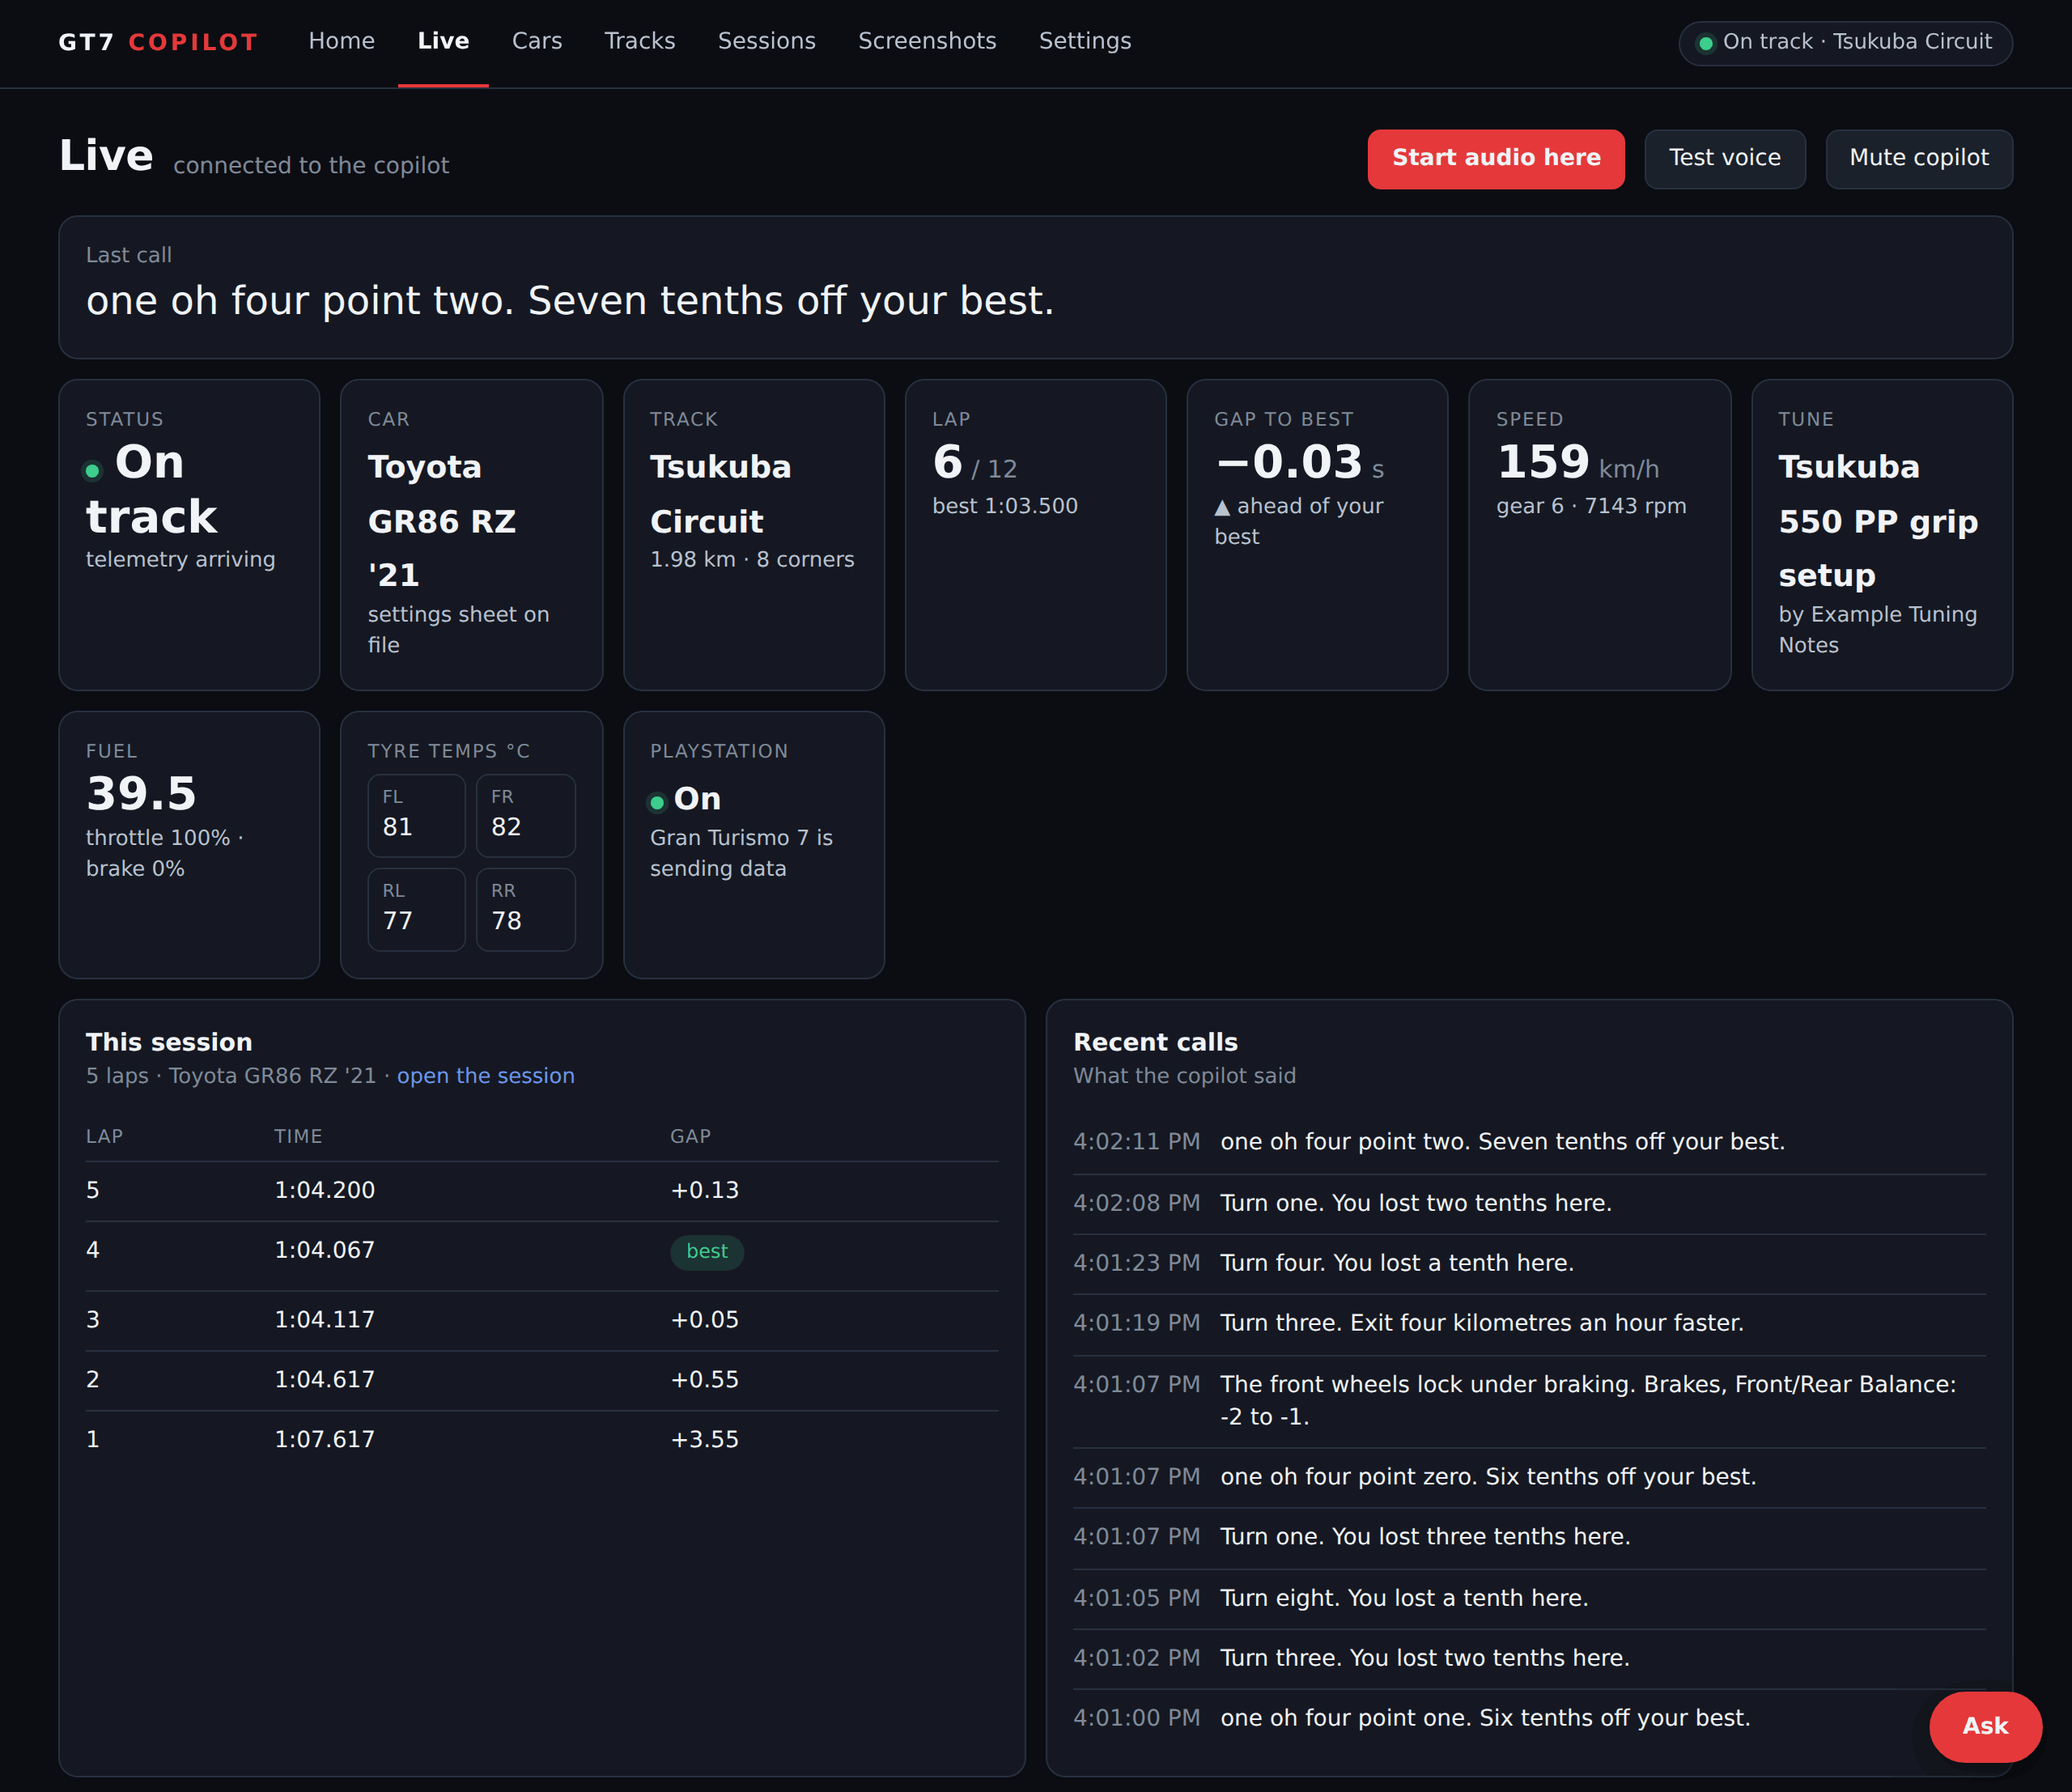
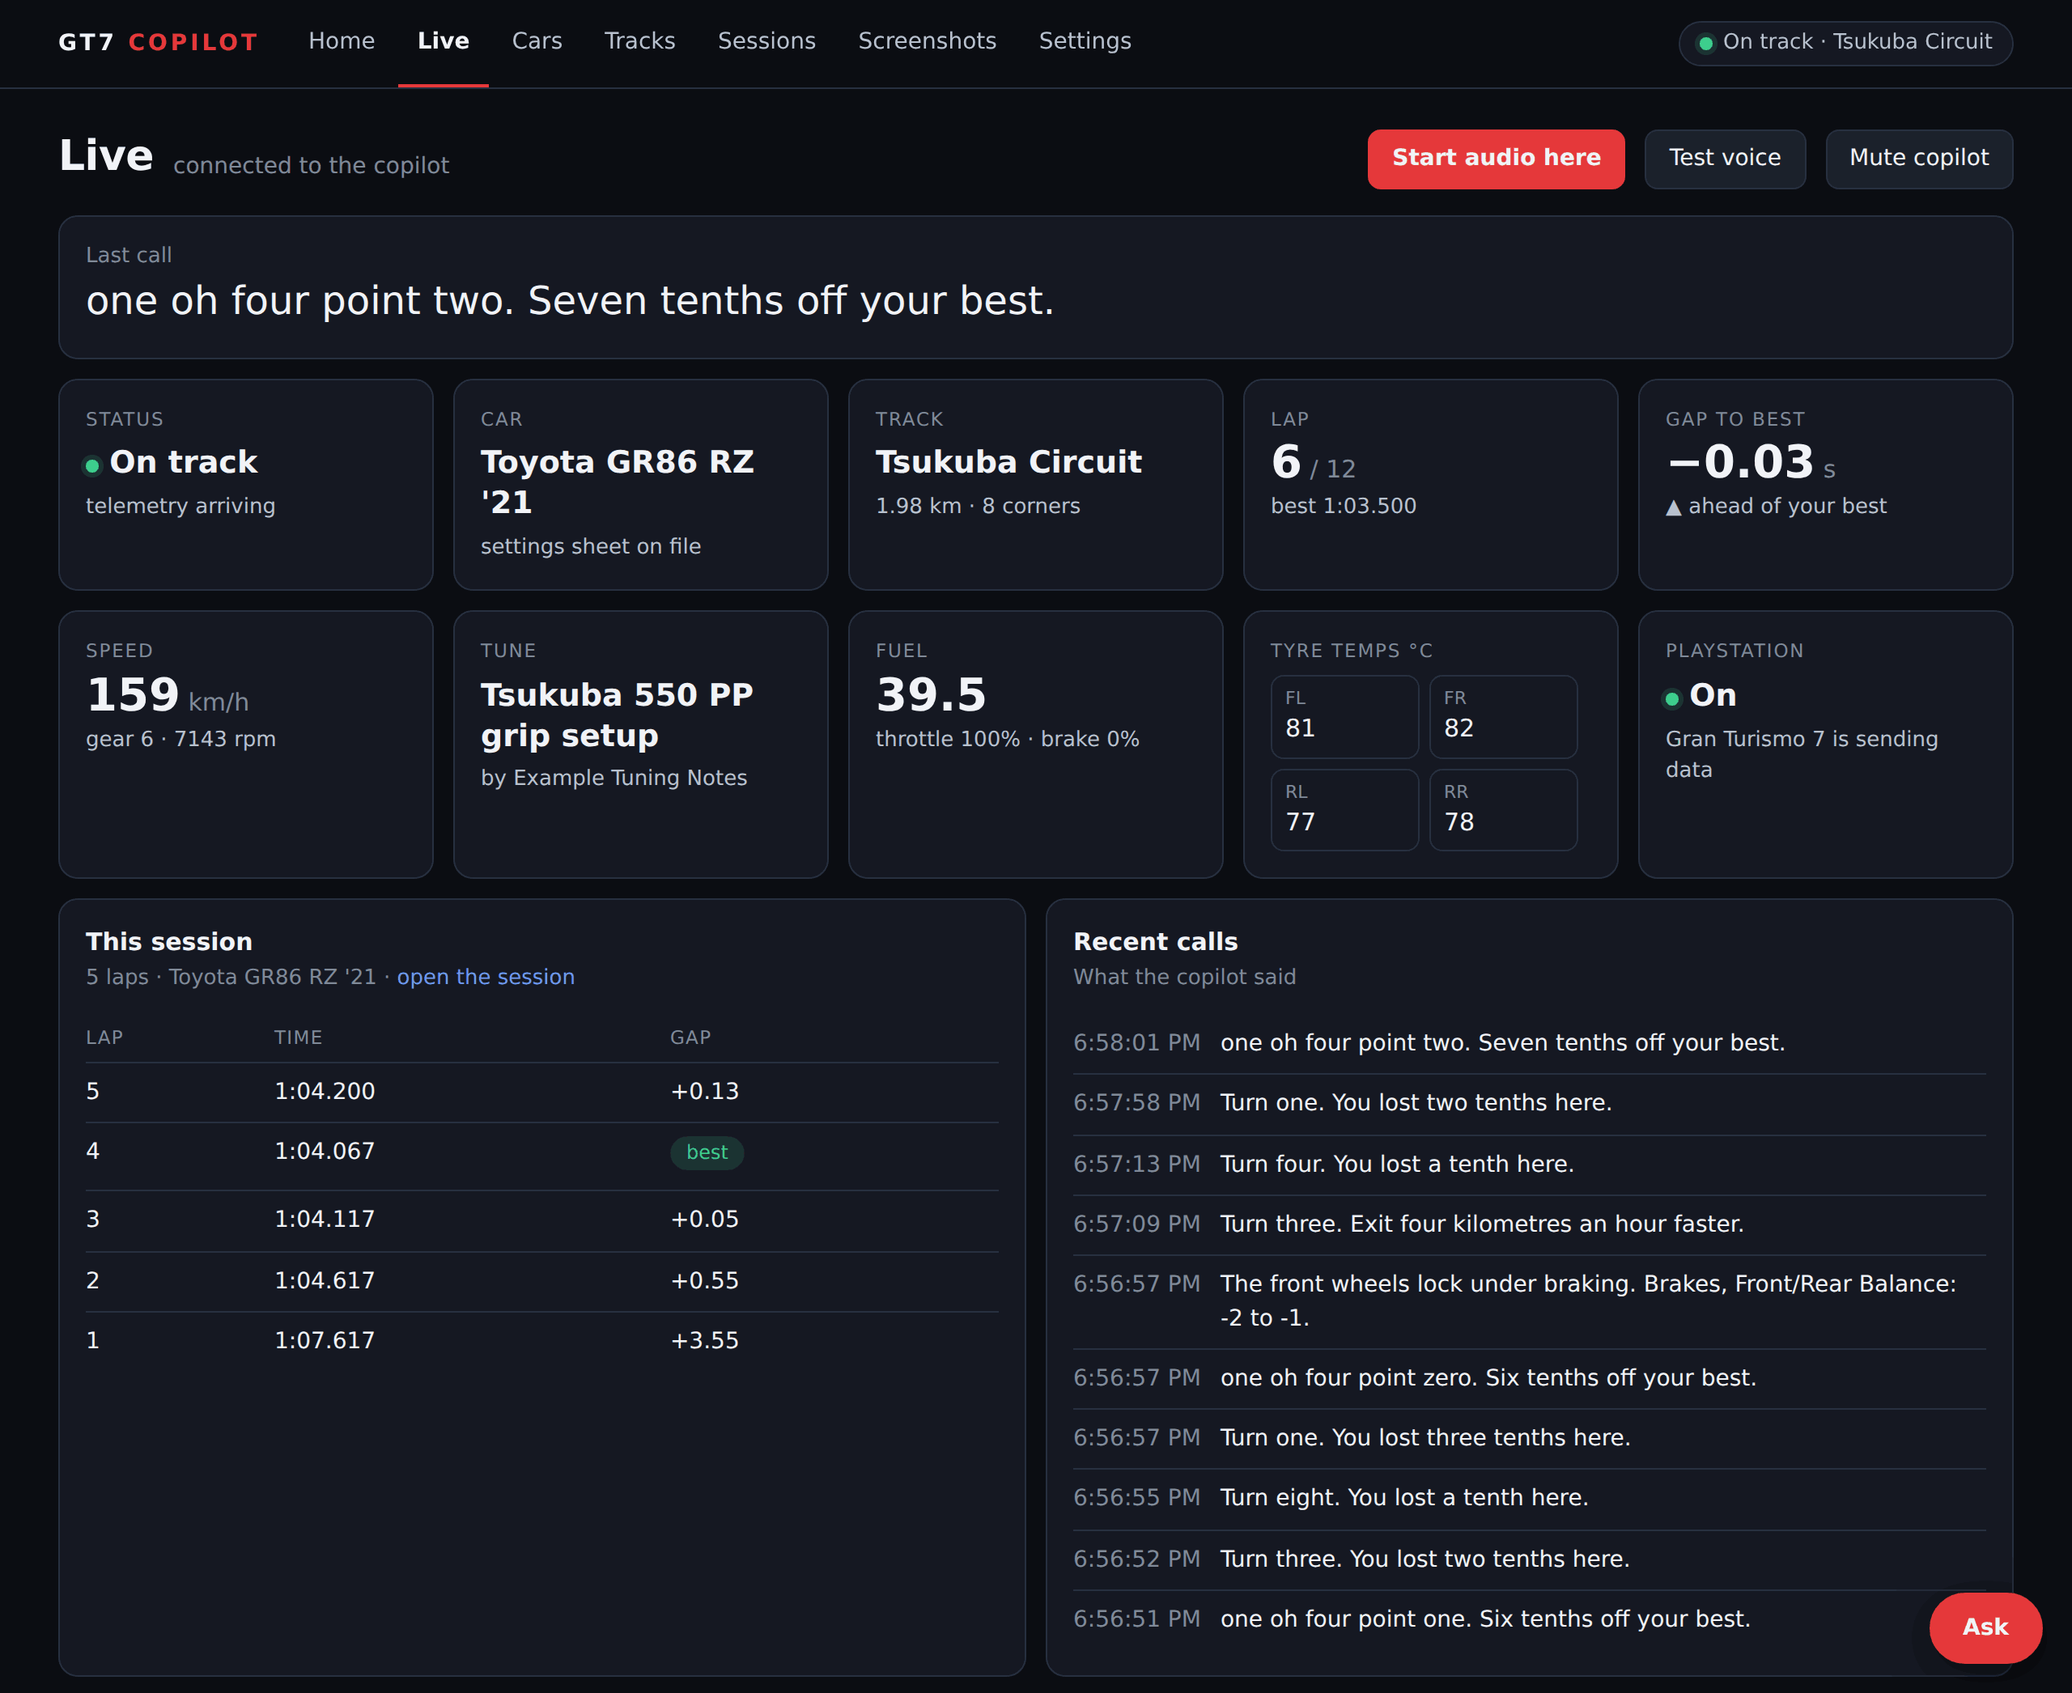
GT7 Copilot 0.13.3: Live tiles, Corners table and room under the Ask button
Claude-Session: https://claude.ai/code/session_01Gq8Z3t3bixSafo6iPL8z1P

diff --git a/web/index.html b/web/index.html
@@ -37,13 +37,15 @@ nav a[aria-current=page]{color:var(--text);border-bottom-color:var(--accent);fon
 @media (max-width:720px){.bar{gap:10px;padding:0 12px}.brand span{display:none}#liveChip .lbl{display:none}}
 
 /* ---- layout ---- */
-main{max-width:1240px;margin:0 auto;padding:20px 16px 60px}
+main{max-width:1240px;margin:0 auto;padding:20px 16px 88px}   /* the bottom: room to scroll the last card clear of the Ask button */
 .pagehead{display:flex;align-items:flex-end;gap:12px;flex-wrap:wrap;margin:4px 0 16px}
 .pagehead h1{font-size:26px;font-weight:650;margin:0;letter-spacing:-.01em}
 .pagehead .sub{color:var(--mut);font-size:14px;padding-bottom:3px}
 .crumb{font-size:13px;color:var(--mut);margin-bottom:6px}
 .grid{display:grid;gap:12px}
 .tiles{grid-template-columns:repeat(auto-fit,minmax(150px,1fr))}
+#liveTiles{grid-template-columns:repeat(auto-fit,minmax(220px,1fr))}   /* ten tiles, some with names in them: five a row on a desktop */
+@media (max-width:520px){#liveTiles{grid-template-columns:repeat(2,minmax(0,1fr))}}
 .two{grid-template-columns:minmax(0,1fr) minmax(0,1fr)}
 .three{grid-template-columns:repeat(3,minmax(0,1fr))}
 .split{grid-template-columns:minmax(0,1.5fr) minmax(0,1fr)}
@@ -57,6 +59,7 @@ main{max-width:1240px;margin:0 auto;padding:20px 16px 60px}
 .tile .k{color:var(--mut);font-size:11.5px;text-transform:uppercase;letter-spacing:.08em}
 .tile .v{font-size:28px;font-weight:650;font-variant-numeric:tabular-nums;line-height:1.2;margin-top:2px}
 .tile .v small{font-size:15px;color:var(--mut);font-weight:500}
+.tile .v .big{display:block;font-size:19px;line-height:1.3;padding:5px 0 4px;overflow-wrap:anywhere}   /* words, not a number: as tall as a number on one line */
 .tile .n{color:var(--text2);font-size:13px;margin-top:2px}
 .mut{color:var(--mut)}.small{font-size:13px}.num{font-variant-numeric:tabular-nums}
 .btn{padding:7px 14px;border-radius:8px;border:1px solid var(--line);background:var(--surface2);color:var(--text);cursor:pointer;display:inline-block;font-size:14px}
@@ -78,6 +81,7 @@ tr.row{cursor:pointer}tr.row:hover td{background:var(--surface2)}
 td.r,th.r{text-align:right;padding-right:0}
 .scroll{overflow-x:auto}
 .scroll table{min-width:480px}
+@media (min-width:901px){.scroll table{min-width:0}}   /* beside another card the table fits the card; on a phone it scrolls sideways */
 .empty{color:var(--mut);padding:28px 8px;text-align:center}
 .empty b{display:block;color:var(--text2);font-size:16px;margin-bottom:4px}
 .note{font-size:13.5px;margin-top:8px}.note.ok{color:var(--good)}.note.bad{color:var(--crit)}
@@ -714,19 +718,19 @@ function next(){if(playing||!queue.length)return;const ev=queue.shift();
   playing=true;const a=new Audio(ev.url);a.onended=a.onerror=()=>{playing=false;next()};
   a.play().catch(()=>{playing=false;speakFallback(ev.text);next()})}
 // SimHub on the sim PC, as the earpiece reports it: the program running, the game it is set to, data arriving.
-function simhubTile(ep,live){const big=x=>`<span style="font-size:19px">${x}</span>`,gt7=/gran\s*turismo\s*7|gt7/i.test(ep.simhub_game||'');
+function simhubTile(ep,live){const big=x=>`<span class="big">${x}</span>`,gt7=/gran\s*turismo\s*7|gt7/i.test(ep.simhub_game||'');
   let c='on',v='Running',n='';
   if(!ep.simhub){c='bad';v='Not running';n='start SimHub on the sim PC'}
   else if(ep.simhub_api===false){c='warn';v='Running';n='it does not answer yet (still starting, or its web server is off)'}
   else if(ep.simhub_game&&!gt7){c='warn';v='Wrong game';n='set to '+esc(ep.simhub_game)+', choose Gran Turismo 7 in SimHub'}
   else if(ep.simhub_game){if(ep.simhub_data)n='Gran Turismo 7 · receiving the car\'s data';else if(live){c='warn';n='Gran Turismo 7 · no data from the console, though the car is on track'}else n='Gran Turismo 7 · waiting for the car to be on track'}
   return tile('SimHub',big(`<span class="dot ${c}"></span> ${v}`),n)}
-function renderLive(s){const n=s.now,tr=s.track,big=x=>`<span style="font-size:19px">${x}</span>`;
+function renderLive(s){const n=s.now,tr=s.track,big=x=>`<span class="big">${x}</span>`;
   $('liveChip').innerHTML=`<span class="dot ${s.live?'on':''}"></span><span class="lbl">${s.live?'On track'+(tr&&tr.name?' · '+esc(tr.name):''):'Idle'}</span>`;
   $('navPhone').hidden=!s.phone_on;askReady=!!s.ask;$('askBtn').hidden=!askReady||!$('askPanel').hidden;
   if($('p-live').hidden)return;
   const d=s.delta,dTxt=d==null?'–':sgn(d),dNote=d==null?'needs a best lap on this track':(d<=0?'▲ ahead of your best':'▼ behind your best');
-  let h=tile('Status',`<span class="dot ${s.live?'on':''}"></span> ${s.live?'On track':'Idle'}`,s.live?'telemetry arriving':'waiting for the car to be on track');
+  let h=tile('Status',big(`<span class="dot ${s.live?'on':''}"></span> ${s.live?'On track':'Idle'}`),s.live?'telemetry arriving':'waiting for the car to be on track');
   h+=tile('Car',s.car?big(`<a href="#cars/${s.car}" style="color:inherit">${esc(s.car_name||('Car '+s.car))}</a>`):'–',s.tune&&s.tune.on_file?'settings sheet on file':(s.car?'no settings sheet on file':''));
   h+=tile('Track',tr?big(`<a href="#tracks/${tr.id}" style="color:inherit">${esc(tr.name||('Track '+tr.id+' (not named yet)'))}</a>`):big('<span class="mut">'+(s.live?(s.track_guess?'looks like '+esc(s.track_guess):'learning it: finish a lap'):'–')+'</span>'),tr?(tr.length/1000).toFixed(2)+' km · '+tr.corners+' corners':(s.track_guess?'the layout is confirmed at the line':''));
   h+=tile('Lap',(s.lap??'–')+(s.total_laps>0?'<small> / '+s.total_laps+'</small>':''),'best '+fmt(s.best_ms));

diff --git a/gt7copilot/__init__.py b/gt7copilot/__init__.py
@@ -1,1 +1,1 @@
-__version__ = "0.13.2"
+__version__ = "0.13.3"

diff --git a/CHANGELOG.md b/CHANGELOG.md
@@ -1,5 +1,13 @@
 # Changelog
 
+## 0.13.3
+Page layout only.
+
+- Live: the tiles are five to a row on a desktop (seven before), and names in a tile (status, car, track, tune) are set in smaller type than numbers, so a car name no longer wraps over three lines.
+- Track: the Corners table fits its card on a desktop and no longer scrolls sideways there.
+- Every page can be scrolled until its last card is clear of the Ask button.
+- README: what the copilot does, with tuning from a screenshot and talking to it described first.
+
 ## 0.13.2
 - The two GitHub workflow files failed to load (a colon inside two unquoted step names), so 0.13.1 was never tested or built there. No change to the app. This is the first version with published images.
 
